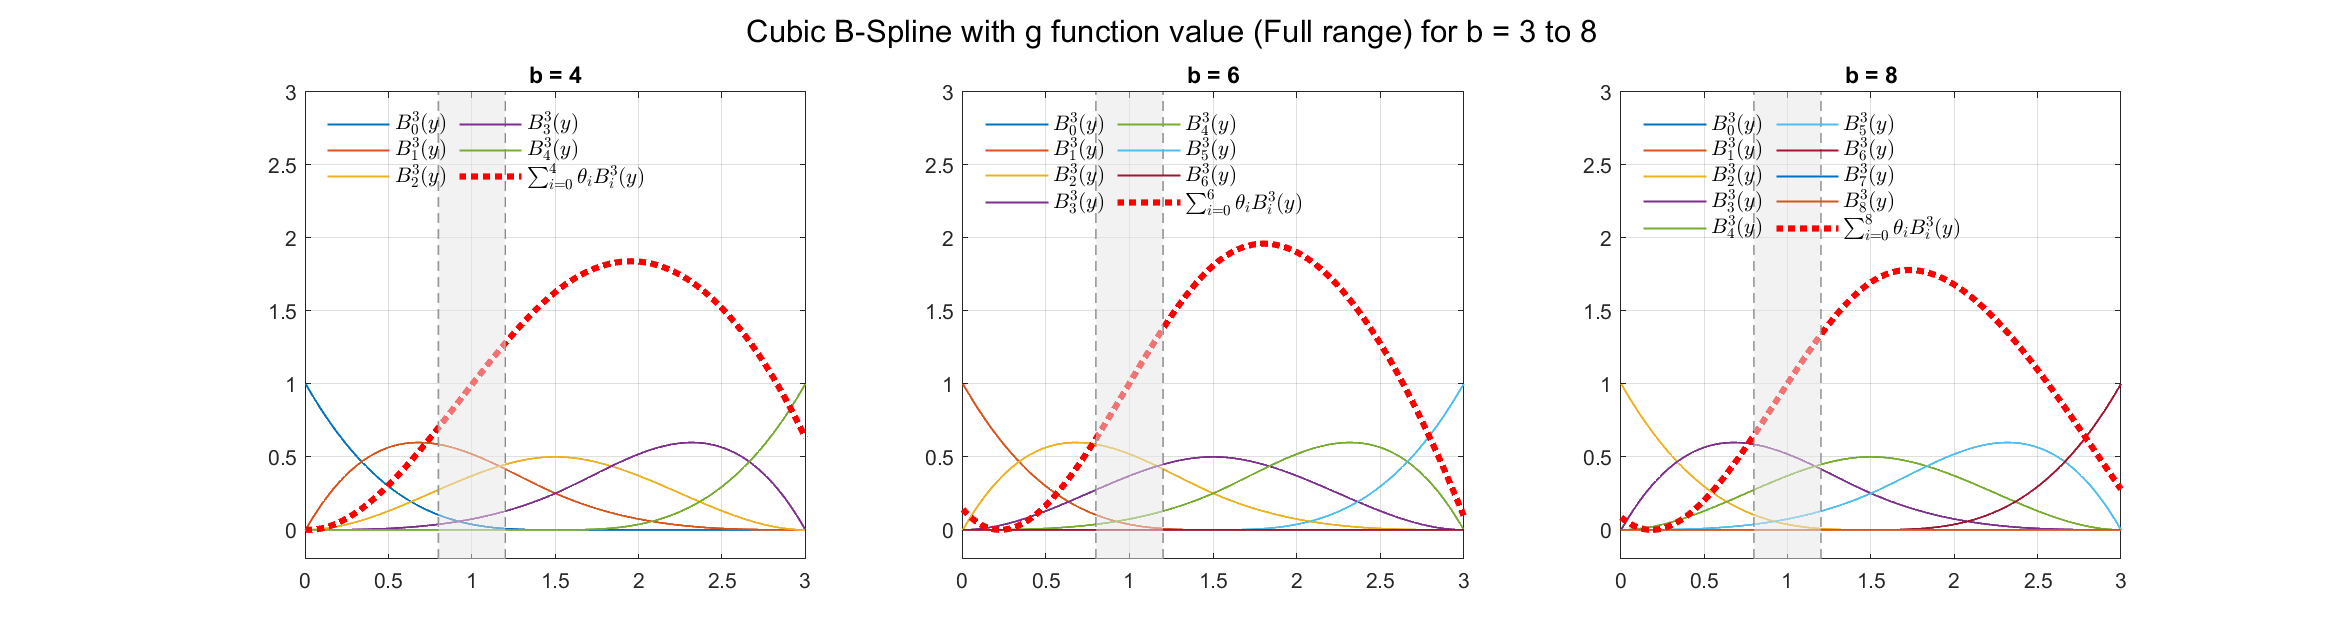
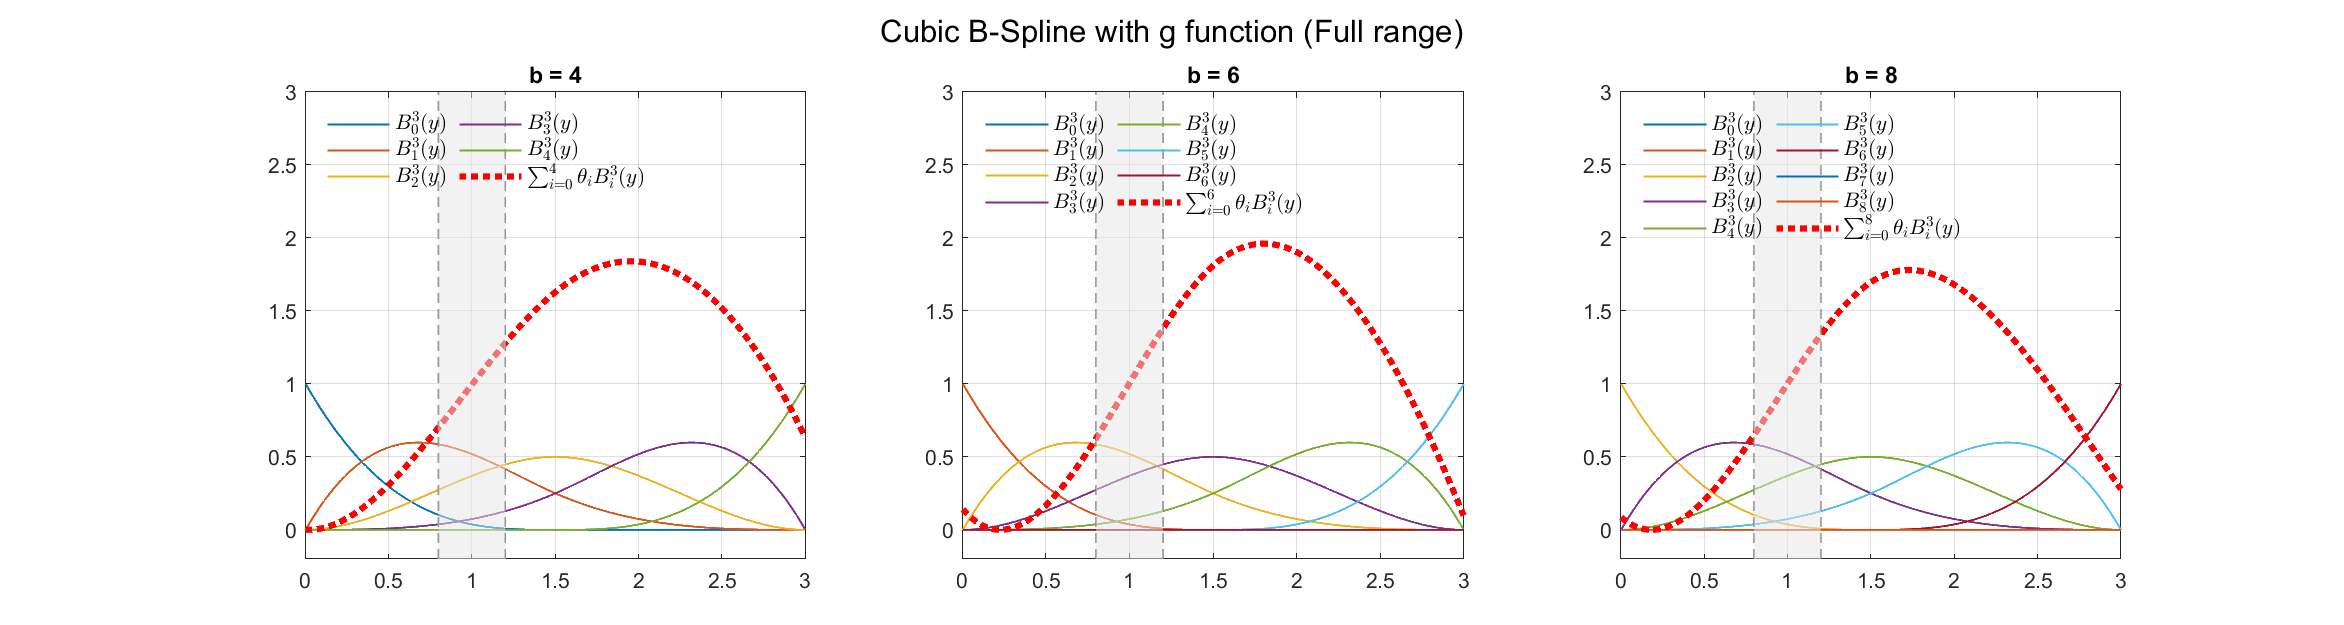
Delete "b = 3 to 8"

Changed region(s): [[0.3114, 0.0304, 0.6852, 0.0912]]

diff --git a/03  條件密度積分方法（CDI method） - 2021 JBF/Procedure__Plot.m b/03  條件密度積分方法（CDI method） - 2021 JBF/Procedure__Plot.m
@@ -160,7 +160,7 @@ for b = [4, 6, 8]
 
 end
 
-sgtitle('Cubic B-Spline with g function value for b = 3 to 8');
+sgtitle('Cubic B-Spline with g function value');
 
 set(gcf, 'Position', [50, 50, 1500, 850]);
 set(gca, 'LooseInset', get(gca, 'TightInset'));
@@ -229,7 +229,7 @@ for b = [4, 6, 8]
 
 end
 
-sgtitle('Cubic B-Spline with g function value (Full range) for b = 3 to 8');
+sgtitle('Cubic B-Spline with g function (Full range)');
 
 set(gcf, 'Position', [50, 50, 1500, 400]);
 set(gca, 'LooseInset', get(gca, 'TightInset'));
@@ -275,7 +275,7 @@ for b = [4, 6, 8]
 
 end
 
-sgtitle('g Function and SDF for b = 3 to 8');
+sgtitle('g Function and SDF');
 
 set(gcf, 'Position', [50, 50, 1500, 850]);
 set(gca, 'LooseInset', get(gca, 'TightInset'));
